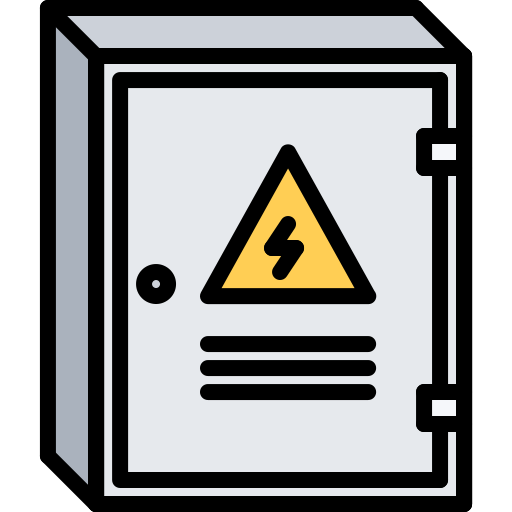
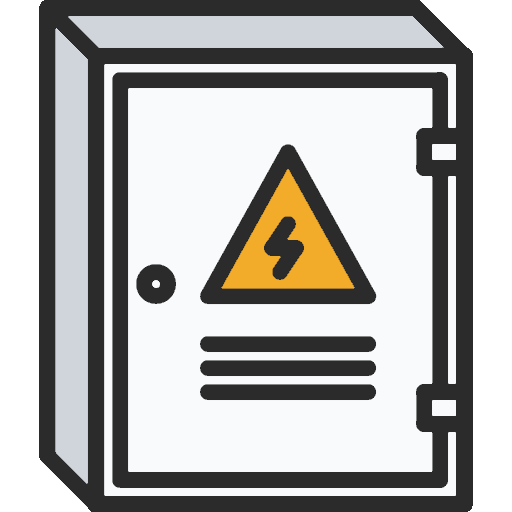
Adapto estética de los iconos a los colores corporativos

diff --git a/index.html b/index.html
@@ -92,7 +92,7 @@
             <div class="contenedor color-contenedor">
                 <h3>🪛 Instalación y puesta en marcha</h3>
                 <p>
-                    Nos encargamos de la <strong>instalación</strong> y <strong>puesta en marcha</strong>, de sistemas de automatización industrial. Garantizando su correcto funcionamiento desde el primer momento. <br><br>
+                    Nos encargamos de la instalación y <strong>puesta en marcha</strong>, de sistemas de automatización industrial. Garantizando su correcto funcionamiento desde el primer momento. <br><br>
                     Nuestro equipo asegura que cada equipo y sistema esté debidamente configurado, probado y listo para operar, cumpliendo con los estándares de calidad y seguridad requeridos.
                 </p>
             </div>
